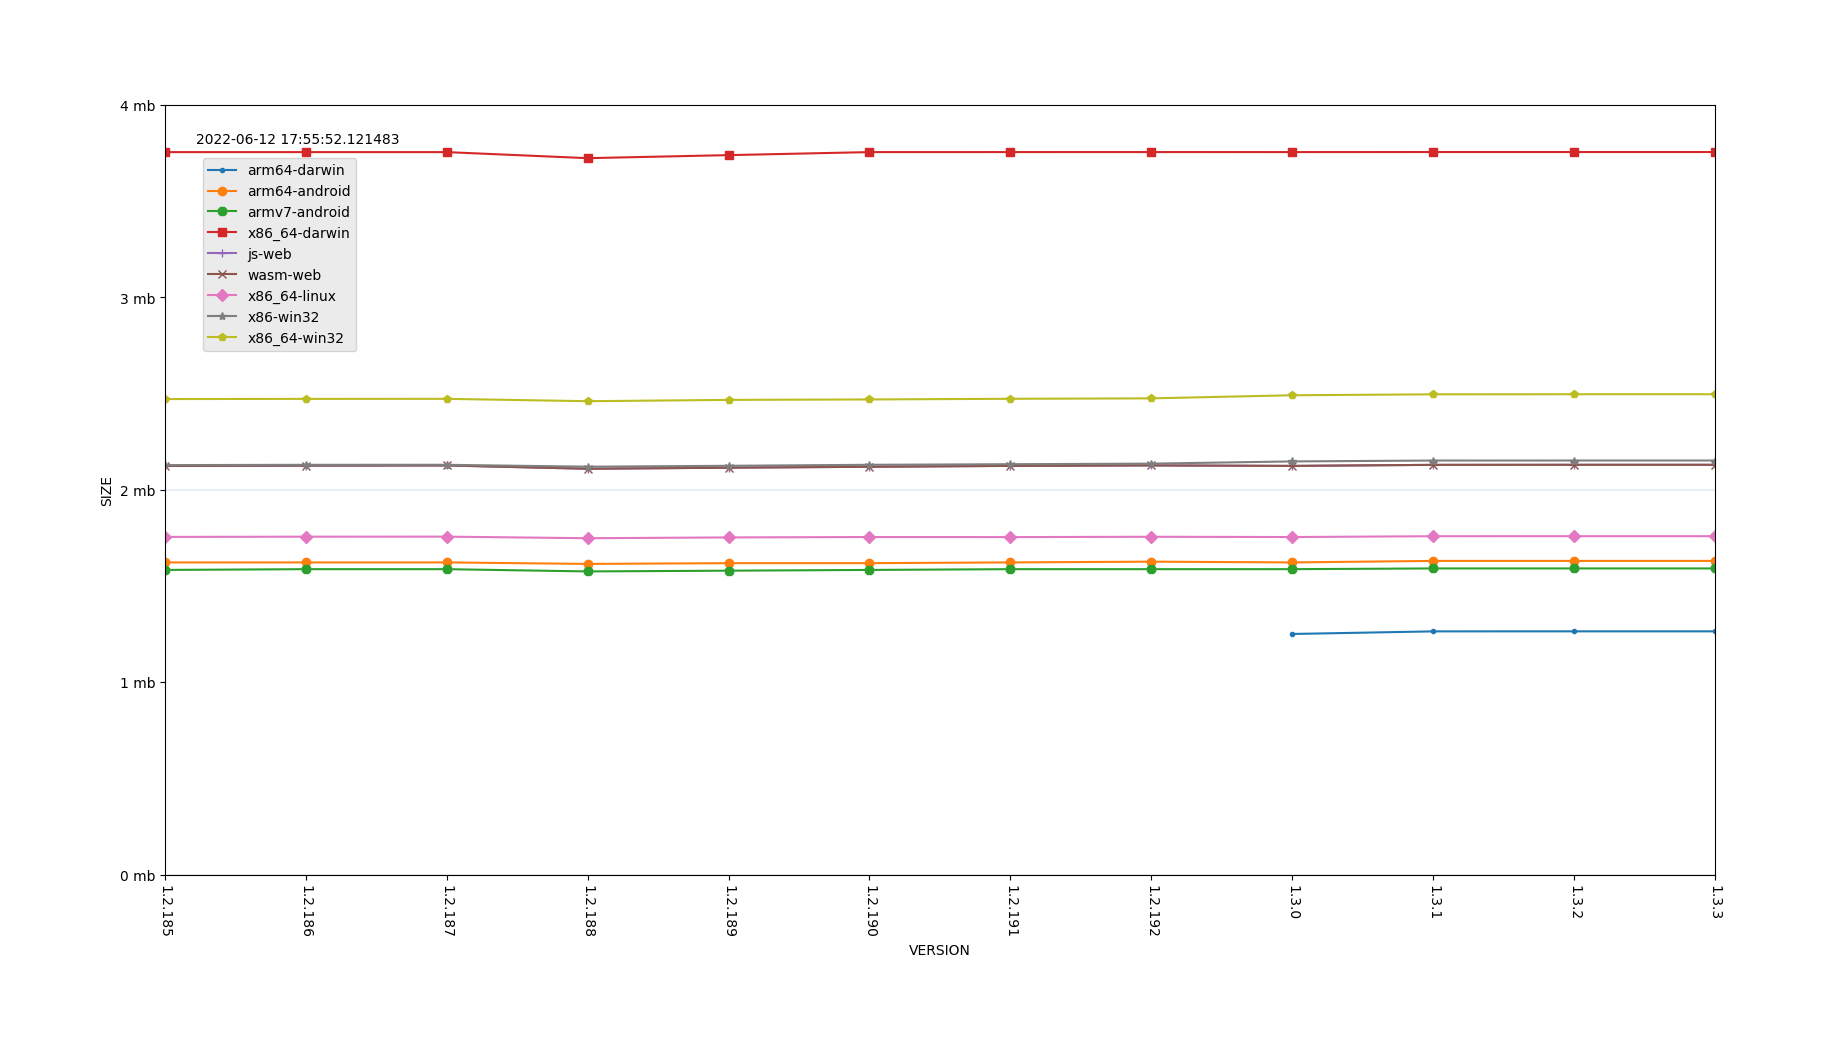
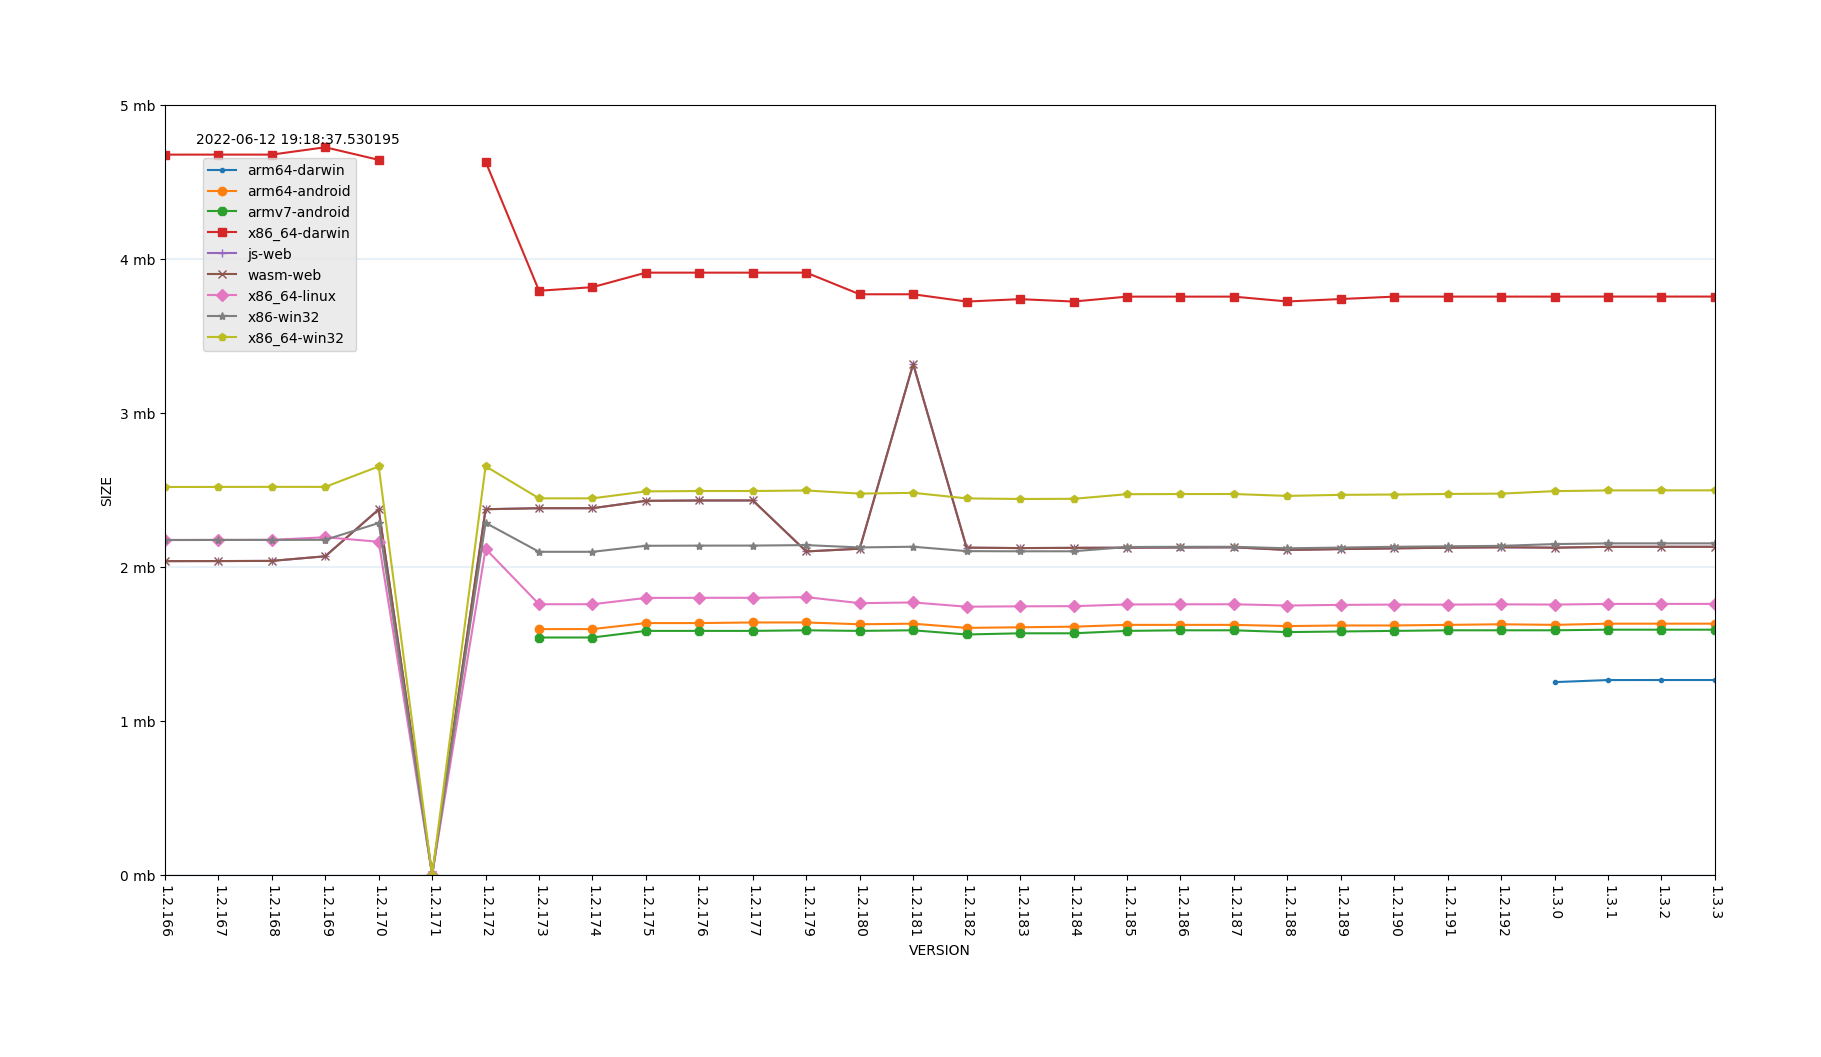
Updated reports

diff --git a/check_size.py b/check_size.py
@@ -322,13 +322,13 @@ if check_for_updates(latest_release, releases):
 # update reports (if releases are missing from a report file)
 print("Creating reports")
 # create_report("legacy_engine_report.csv", releases['releases'], engines, get_engine_size_from_aws)
-# create_report("engine_report.csv", releases['releases'], engines, get_engine_size_from_bob)
+create_report("engine_report.csv", releases['releases'], engines, get_engine_size_from_bob)
 create_report("bundle_report.csv", releases['releases'], bundles, get_bundle_size_from_bob)
 
 
 # create graphs based on the different reports
-# print("Creating graphs")
-# create_graph("legacy_engine_report.csv", out='legacy_engine_size.png')
-# create_graph("legacy_engine_report.csv", out='legacy_engine_size_stripped.png', from_version='1.2.155') # from 1.2.155, we have stripped versions available for all platforms
-# create_graph("legacy_engine_report.csv", out='engine_size.png')
-create_graph("bundle_report.csv", out='bundle_size.png', from_version='1.2.185')
+print("Creating graphs")
+create_graph("legacy_engine_report.csv", out='legacy_engine_size.png')
+create_graph("legacy_engine_report.csv", out='legacy_engine_size_stripped.png', from_version='1.2.155') # from 1.2.155, we have stripped versions available for all platforms
+create_graph("engine_report.csv", out='engine_size.png', from_version='1.2.166')
+create_graph("bundle_report.csv", out='bundle_size.png', from_version='1.2.166')

diff --git a/README.md b/README.md
@@ -1,9 +1,28 @@
 [![Build Status](https://travis-ci.com/britzl/dmengine_size.svg?branch=master)](https://travis-ci.com/britzl/dmengine_size)
 
-# dmengine size plot
+# Defold engine and application bundle size plot
 This project will plot the size of the Defold engine (aka dmengine) as well as the size of a complete Defold game bundle for all supported platforms and versions.
 
+## Bndle size
+The bundle size is measured as:
 
+* Android - Size of .apk file containing one CPU architecture
+* iOS - Size of .ipa file
+* macOS - Size of .app file
+* Windows - Size of zip archive with engine, required library files and game archive
+* Linux - Size of zip archive with engine, required library files and game archive
+* HTML5 - Size of zip archive with either .wasm or .asm.js engine, required library files and game archive
+
+![Bundle size per platform and version](https://github.com/britzl/dmengine_size/raw/master/bundle_size.png)
+
+
+## Engine size
+This is the size of a release version of the Defold engine executable/library:
+
+![Engine size per platform and version](https://github.com/britzl/dmengine_size/raw/master/engine_size.png)
+
+
+## Deprecated graphs
 Graph of versions stripped of debug symbols:
 
 ![Size per platform and version](https://github.com/britzl/dmengine_size/raw/master/legacy_engine_size_stripped.png)
@@ -14,10 +33,12 @@ History of versions:
 
 [![](https://travis-ci.org/britzl/dmengine_size.svg?branch=master)](https://travis-ci.org/britzl/dmengine_size/builds)
 
+
 # Requirements
 If you wish to run this script locally you need to have the following things installed:
 
 * Python 2.7.10+
+* Java 11.0.*
 * [matlibplot](http://matplotlib.org/)
 
 # Usage
